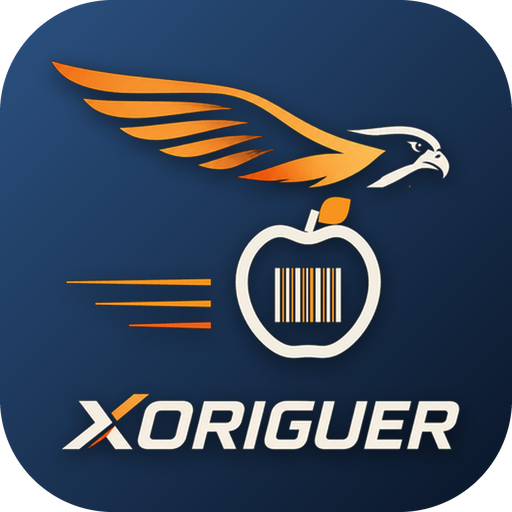
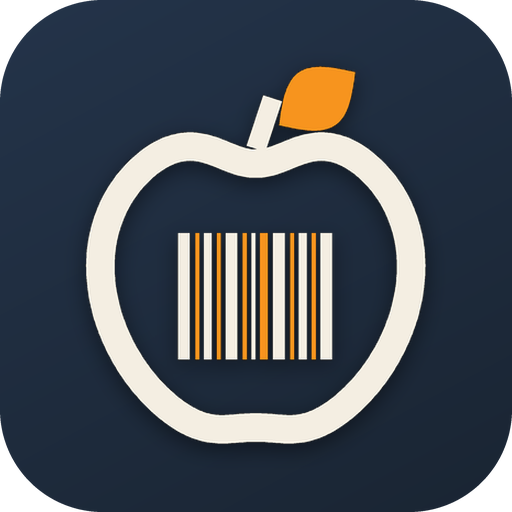
Icones sense falcó i pantalla d'inici d'Android blau pissarra

diff --git a/sw.js b/sw.js
@@ -1,6 +1,6 @@
 // Xoriguer · funcionament sense connexió
 // Quan canviïs l'app, puja el número de versió perquè els mòbils agafin la nova.
-const VERSION = "xoriguer-v7";
+const VERSION = "xoriguer-v7-icones";
 // Tot el que cal per funcionar sense internet des del primer dia
 const APP = [
   "./", "index.html", "manifest.json", "css/app.css", "marca/marca.css", "marca/Montserrat-ExtraBold.ttf",
